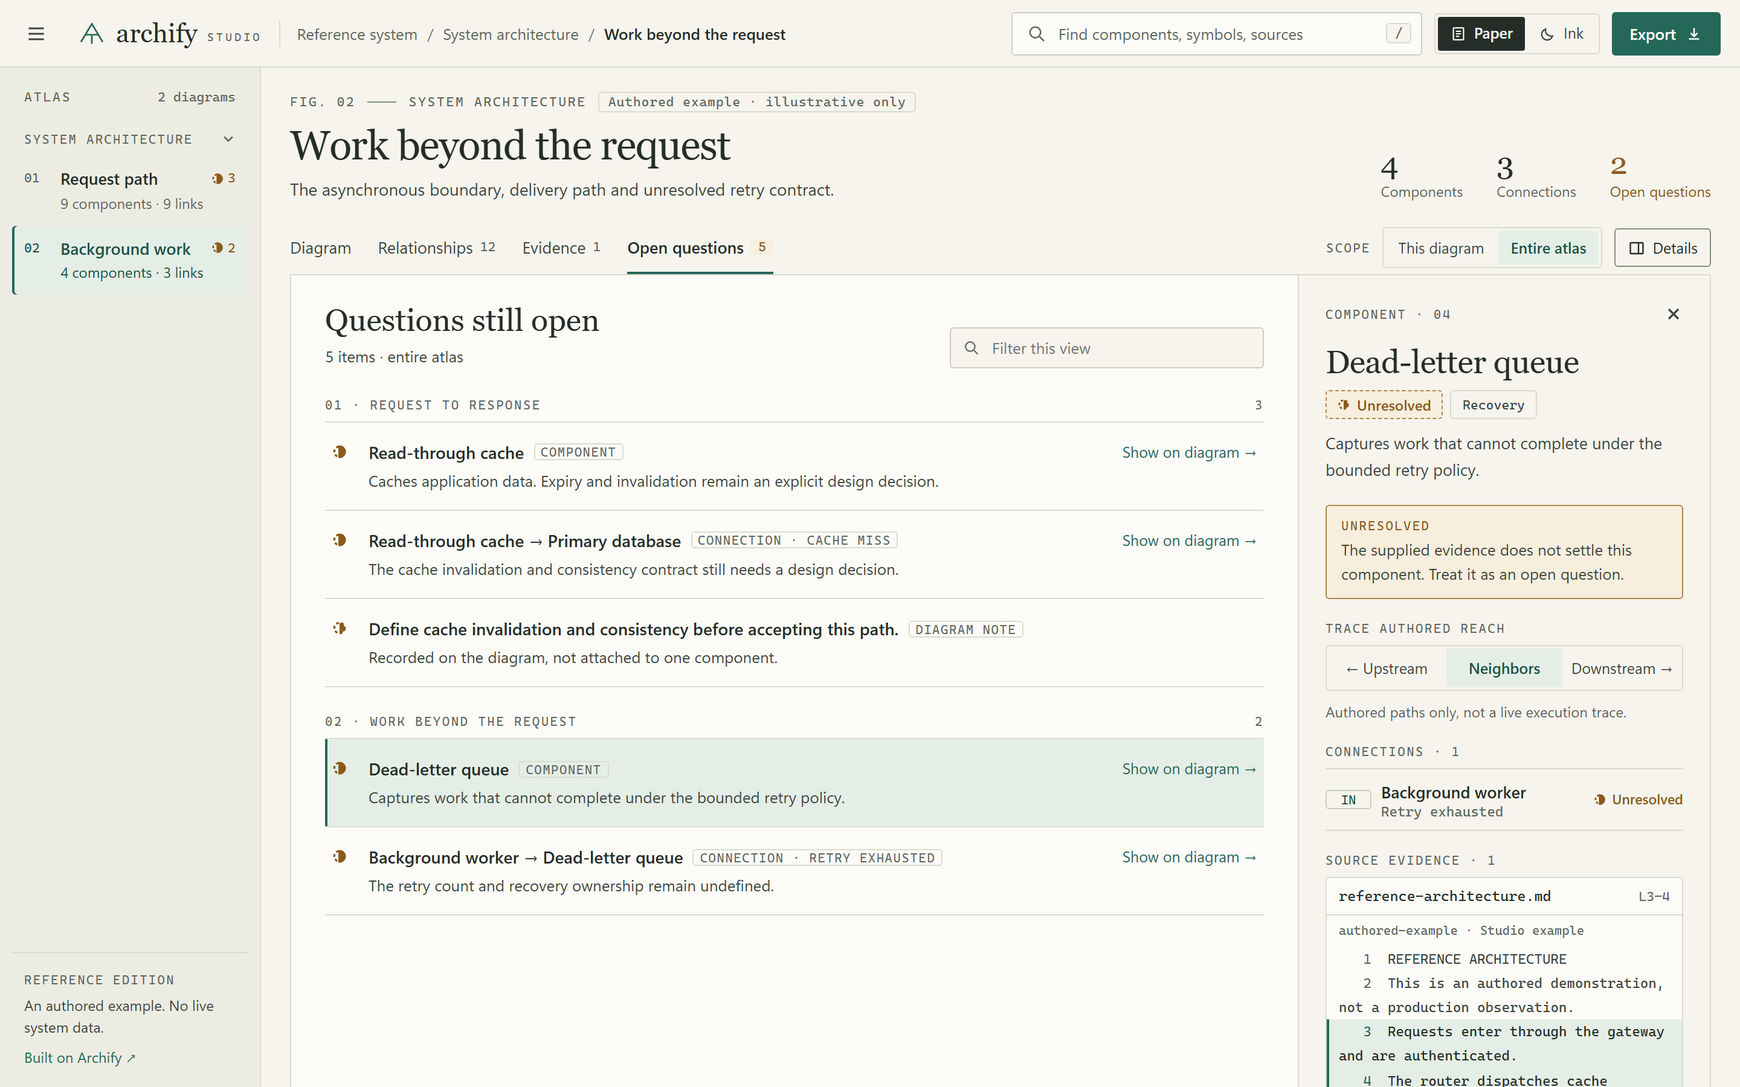
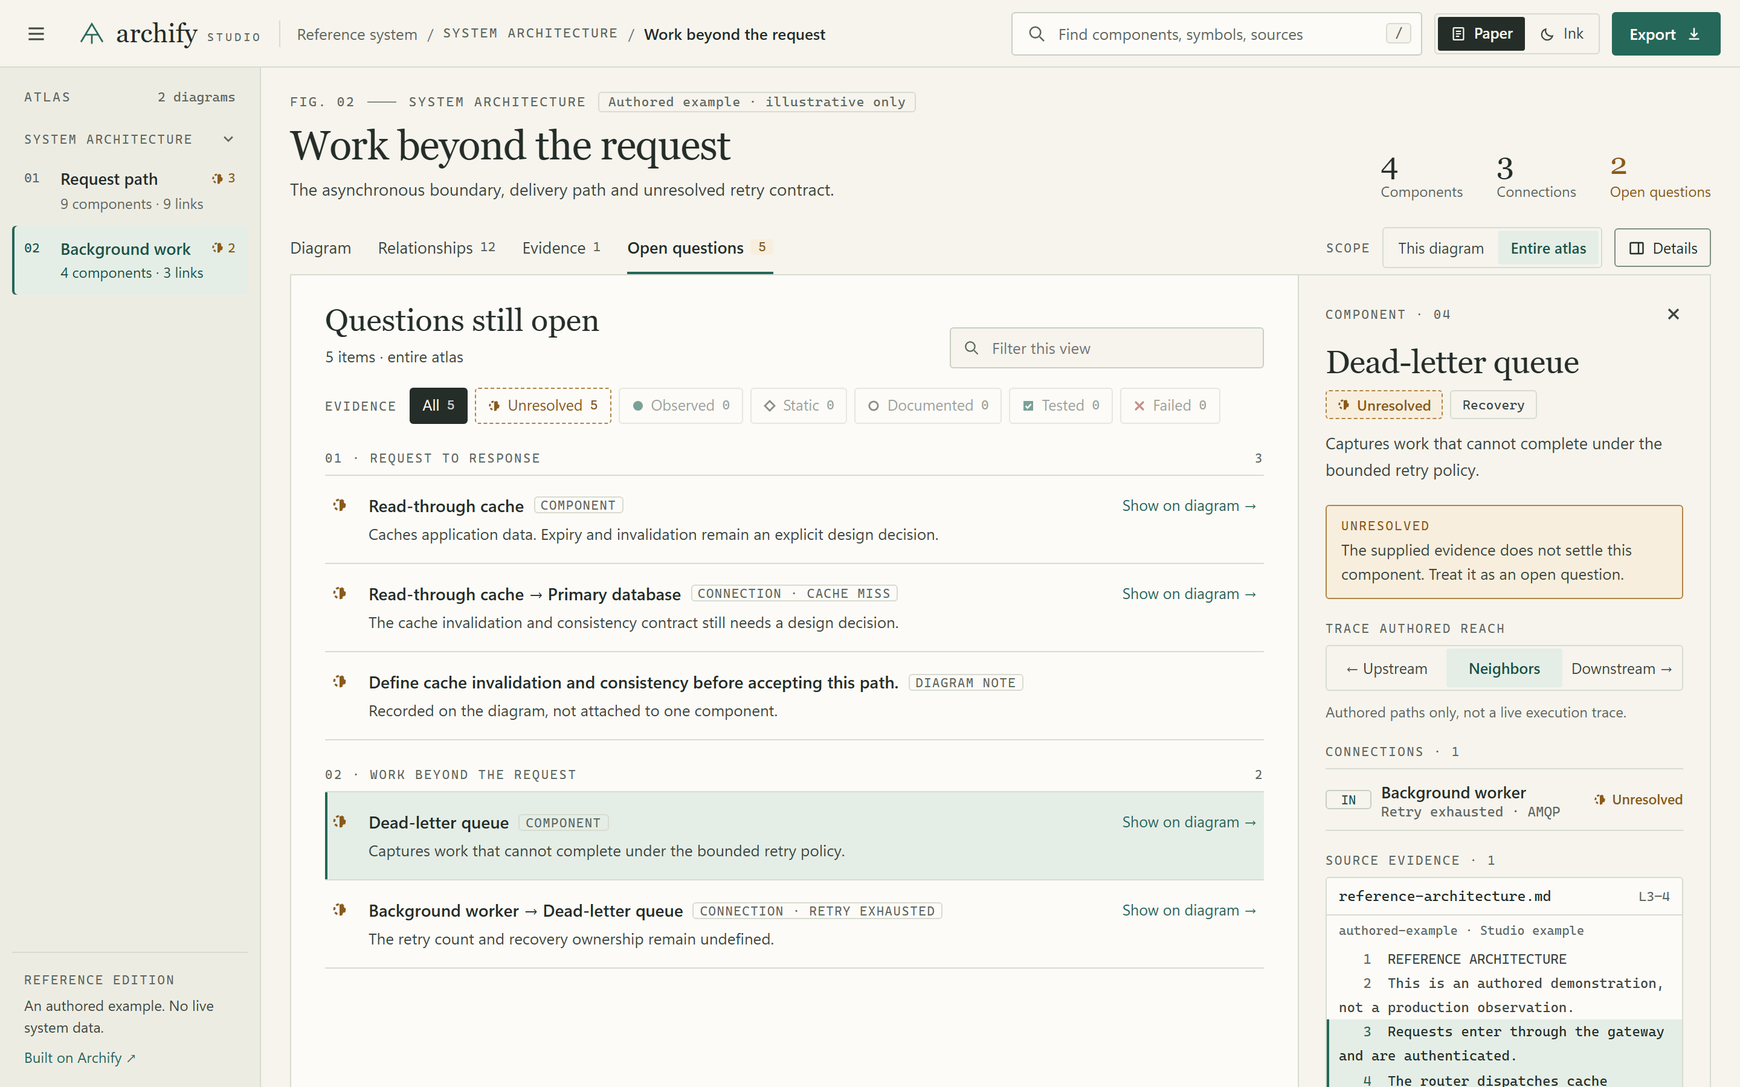
Add relationship transport and interaction-scoped flow animation
Transport (RFC 0002): relationships may record how they cross their
boundary with an optional, validated transport object: mechanism,
protocol, port (0-65535), call (an endpoint, API or system call) and up
to 20 named attributes. Lines carry a short mechanism-and-port chip;
the inspector, relationship rows and search carry the full detail, and
search says when a match came from transport. Transport is authored
metadata under the relationship's evidence state, not a capture. The
Python packager passes it through the shared Node validator unchanged.

Flow: beads flow in the authored direction along the selected
connection, a selected component's connections or a traced path. The
Flow control cycles selection, every connection and off, so motion can
always be stopped (WCAG 2.2.2); reduced motion removes it and SVG
exports omit it. The underlying line keeps its evidence style.

The example atlas gains authored transport for every relationship,
DESIGN.md replaces "no perpetual motion" with "no ambient motion", and
the README screenshots are recaptured.

diff --git a/studio/studio.css b/studio/studio.css
@@ -141,6 +141,8 @@ h1{font:400 34px/1.15 var(--display);letter-spacing:-.6px;margin:8px 0 6px;overf
 .canvas-tools .text-tool{padding:0 12px;font-size:12.5px}
 .canvas-tools .focus-tool:not(:disabled){color:var(--accent-strong);font-weight:600}
 .canvas-tools .mono-tool{font:13px var(--mono)}
+.canvas-tools .flow-tool[data-mode=all]{background:var(--accent-soft);color:var(--accent-strong);font-weight:600}
+.canvas-tools .flow-tool[data-mode=off]{color:var(--muted)}
 .tool-rule{width:1px;height:20px;background:var(--rule)}
 .minimap{position:absolute;right:16px;bottom:16px;width:144px;height:90px;border:1px solid var(--rule);border-radius:3px;background:var(--paper);cursor:pointer;z-index:2}
 .mm-node{fill:var(--rule)}
@@ -186,6 +188,10 @@ h1{font:400 34px/1.15 var(--display);letter-spacing:-.6px;margin:8px 0 6px;overf
 .trace{display:grid;grid-template-columns:repeat(3,minmax(0,1fr))}
 .trace button{justify-content:center;height:32px}
 .hint{font-size:12px;color:var(--muted);margin:0}
+.transport-list{margin:0;border-top:1px solid var(--rule)}
+.transport-list>div{display:grid;grid-template-columns:92px minmax(0,1fr);gap:12px;padding:8px 0;border-bottom:1px solid var(--rule);font-size:13px}
+.transport-list dt{font-size:12px;color:var(--muted)}
+.transport-list dd{margin:0;overflow-wrap:anywhere}
 .relation-row{width:100%;display:grid;grid-template-columns:38px minmax(0,1fr) auto;align-items:center;gap:8px;min-height:52px;padding:6px 0;border-top:1px solid var(--rule);text-align:left}
 .relation-row:last-child{border-bottom:1px solid var(--rule)}
 .relation-row:hover .rel-name{color:var(--accent)}
@@ -254,6 +260,7 @@ button.question-row:hover span{color:var(--accent)}
 .row-title-line{display:flex;flex-wrap:wrap;align-items:center;gap:6px 8px}
 .row-title{font-size:14px;font-weight:600;overflow-wrap:anywhere}
 .row-tag{font:10.5px var(--mono);letter-spacing:.8px;color:var(--muted);border:1px solid var(--rule);border-radius:3px;padding:0 5px;text-transform:uppercase}
+.row-meta{font:11.5px var(--mono);color:var(--ink-2);overflow-wrap:anywhere}
 .row-detail{font-size:13px;color:var(--ink-2);line-height:1.55;overflow-wrap:anywhere}
 .row-action{font-size:12.5px;color:var(--accent);white-space:nowrap;padding-top:1px}
 button.data-row:hover{background:var(--surface)}
@@ -342,6 +349,19 @@ mark{background:var(--mark);color:var(--accent-strong);border-radius:2px;padding
 .edge-label[data-status=failed]{fill:var(--rose)}
 .edge-label[data-on=true]{font-weight:600}
 .edge-label[data-on=true]:not([data-status=unresolved],[data-status=failed]){fill:var(--accent-strong)}
+/* Flow: beads travelling along the authored direction. The line underneath keeps its evidence style. */
+.edge-flow{fill:none;stroke:var(--accent);stroke-width:3.2;stroke-linecap:round;stroke-dasharray:.1 13;display:none;pointer-events:none}
+.graph-edge[data-status=unresolved] .edge-flow{stroke:var(--amber)}
+.graph-edge[data-status=failed] .edge-flow{stroke:var(--rose)}
+.graph-edge:is([data-selected=true],[data-near=true],[data-traced=true]) .edge-flow{stroke:var(--canvas);stroke-width:1.4}
+.graph-edge:is([data-selected=true],[data-near=true],[data-traced=true]) .edge-flow,.flow-all .graph-edge:not([data-dim=true]) .edge-flow{display:inline}
+.flow-off .edge-flow{display:none!important}
+@media(prefers-reduced-motion:no-preference){.edge-flow{animation:edge-flow 1s linear infinite}}
+@media(prefers-reduced-motion:reduce){.edge-flow{display:none!important}}
+@keyframes edge-flow{to{stroke-dashoffset:-13.1}}
+.edge-transport{font:10.5px var(--mono);letter-spacing:.2px;fill:var(--ink-2);paint-order:stroke;stroke:var(--canvas);stroke-width:6;stroke-linejoin:round;pointer-events:none}
+.edge-transport[data-on=true]{fill:var(--accent-strong)}
+.edge-transport[data-dim=true]{opacity:.22}
 .arrow-fill{fill:var(--strong-rule)}.arrow-accent{fill:var(--accent)}.arrow-amber{fill:var(--amber)}.arrow-rose{fill:var(--rose)}
 .sheet-label{font:10.5px var(--mono);letter-spacing:1.6px;fill:var(--muted)}
 
@@ -396,7 +416,7 @@ mark{background:var(--mark);color:var(--accent-strong);border-radius:2px;padding
   .filters{flex-wrap:nowrap;overflow-x:auto;padding:10px 12px 4px;scrollbar-width:none}
   .filters .mono-label{display:none}
   .chip{height:32px;flex:none}
-  .minimap,.canvas-tools #shortcuts-open,.canvas-tools .tool-rule:last-of-type,.focus-tool span{display:none}
+  .minimap,.canvas-tools #shortcuts-open,.canvas-tools .tool-rule:last-of-type,.focus-tool span,.flow-tool span{display:none}
   .canvas-tools{left:auto;right:12px;bottom:12px;height:44px}
   .canvas-tools button{height:42px;min-width:42px}
   .resize-handle{display:none}

diff --git a/studio/index.html b/studio/index.html
@@ -43,7 +43,7 @@
       <section id="map-panel" class="map-panel" role="tabpanel" aria-labelledby="tab-diagram">
         <div class="filters" id="filters" role="group" aria-label="Filter by evidence state"></div>
         <div class="canvas" id="canvas" tabindex="0" aria-label="Interactive diagram. Drag empty space or use the arrow keys to pan; use plus, minus or zero to zoom and fit; F focuses the selection."><svg id="diagram" xmlns="http://www.w3.org/2000/svg" role="group" aria-label="Architecture diagram"></svg></div>
-        <div class="canvas-tools" role="toolbar" aria-label="Diagram view"><button id="zoom-out" aria-label="Zoom out"><svg viewBox="0 0 14 14" aria-hidden="true"><path d="M2 7h10"/></svg></button><output id="zoom-value" aria-live="off">100%</output><button id="zoom-in" aria-label="Zoom in"><svg viewBox="0 0 14 14" aria-hidden="true"><path d="M2 7h10M7 2v10"/></svg></button><span class="tool-rule" aria-hidden="true"></span><button id="zoom-reset" class="text-tool">Fit</button><button id="focus-selection" class="text-tool focus-tool" disabled><svg viewBox="0 0 16 16" aria-hidden="true"><circle cx="8" cy="8" r="4.5"/><path d="M8 1v3M8 12v3M1 8h3M12 8h3"/></svg><span>Focus selection</span></button><span class="tool-rule" aria-hidden="true"></span><button id="shortcuts-open" aria-label="Keyboard shortcuts" aria-haspopup="dialog" class="mono-tool">?</button></div>
+        <div class="canvas-tools" role="toolbar" aria-label="Diagram view"><button id="zoom-out" aria-label="Zoom out"><svg viewBox="0 0 14 14" aria-hidden="true"><path d="M2 7h10"/></svg></button><output id="zoom-value" aria-live="off">100%</output><button id="zoom-in" aria-label="Zoom in"><svg viewBox="0 0 14 14" aria-hidden="true"><path d="M2 7h10M7 2v10"/></svg></button><span class="tool-rule" aria-hidden="true"></span><button id="zoom-reset" class="text-tool">Fit</button><button id="focus-selection" class="text-tool focus-tool" disabled><svg viewBox="0 0 16 16" aria-hidden="true"><circle cx="8" cy="8" r="4.5"/><path d="M8 1v3M8 12v3M1 8h3M12 8h3"/></svg><span>Focus selection</span></button><button id="flow-toggle" class="text-tool flow-tool" data-mode="selection"><svg viewBox="0 0 16 16" aria-hidden="true"><path d="M1.5 8h8M7 5l3 3-3 3"/><circle cx="13.5" cy="8" r="1.2"/></svg><span>Flow</span></button><span class="tool-rule" aria-hidden="true"></span><button id="shortcuts-open" aria-label="Keyboard shortcuts" aria-haspopup="dialog" class="mono-tool">?</button></div>
         <svg id="minimap" class="minimap" xmlns="http://www.w3.org/2000/svg" role="img" aria-label="Overview of the whole diagram; the frame marks the visible area. Clicking moves the view, as do the arrow keys on the diagram."></svg>
       </section>
       <section id="list-panel" class="list-panel" role="tabpanel" hidden></section>

diff --git a/studio/tools/test_package_atlas.py b/studio/tools/test_package_atlas.py
@@ -79,6 +79,17 @@ class PacketTests(unittest.TestCase):
             with self.assertRaises(ValueError):
                 build_packet(data, self.source)
 
+    def test_relationship_transport_passes_through_and_is_validated(self) -> None:
+        data = copy.deepcopy(self.model)
+        data["routes"][0]["nodes"].append({"id": "b", "label": "Second", "kind": "backend", "status": "documented", "symbols": [], "sources": [], "x": 400, "y": 80, "width": 220, "height": 90})
+        data["routes"][0]["edges"].append({"id": "call", "from": "a", "to": "b", "label": "Control", "status": "documented",
+                                             "transport": {"mechanism": "IOCTL", "call": "DeviceIoControl(IOCTL_EXAMPLE)", "attributes": [{"name": "Access", "value": "FILE_ANY_ACCESS"}]}})
+        atlas = json.loads(build_packet(data, self.source)["atlas-data.json"])
+        self.assertEqual(atlas["routes"][0]["edges"][0]["transport"]["call"], "DeviceIoControl(IOCTL_EXAMPLE)")
+        data["routes"][0]["edges"][0]["transport"] = {"port": 70000}
+        with self.assertRaises(ValueError):
+            build_packet(data, self.source)
+
     def test_python_packet_is_accepted_by_real_studio_builder(self) -> None:
         packet = build_packet(self.model, self.source)
         destination = self.root / "packet"

diff --git a/studio/rfcs/0002-relationship-transport-and-flow.md b/studio/rfcs/0002-relationship-transport-and-flow.md
@@ -1,0 +1,46 @@
+# RFC 0002: Relationship transport metadata and flow animation
+
+Status: accepted for implementation under the user's 2026-10-08 request
+Date: 2026-10-08
+Affected contract IDs: JSON-01, A11Y-01, A11Y-02, EVIDENCE-01, CLAIM-01
+Tested revision: the PR #1 commit that adds this RFC
+
+## Problem and scope
+
+Readers asked to see how each relationship crosses its boundary: the network protocol and port, the API or system call, or another mechanism such as an IOCTL or shared memory. They also asked for animated flow along connections. The atlas model had nowhere to record transport, and the design contract excluded motion.
+
+Scope: an optional, validated `transport` object on relationships in the Studio model and the atlas input contract, its presentation in the workspace, and interaction-scoped flow animation. Non-goals: inferring transport from source code, capturing traffic, or changing upstream Archify renderers or candidates.
+
+## Standards and decision
+
+Model. An edge may carry `transport` with any of:
+
+- `mechanism`: how the call crosses the boundary (for example HTTPS, gRPC, IOCTL, system call, function call, shared memory, message queue, MMIO).
+- `protocol`: the wire or message protocol (for example HTTP/1.1, AMQP 0-9-1, QMI).
+- `port`: an integer from 0 to 65535, as in the IANA port number range ([RFC 6335](https://www.rfc-editor.org/rfc/rfc6335), section 6).
+- `call`: the specific endpoint, API or system call (for example `POST /v1/requests`, `DeviceIoControl(IOCTL_EXAMPLE)`, `read(2)`).
+- `attributes`: up to 20 `{name, value}` text pairs for anything else.
+
+Text fields are non-empty and at most 500 characters (attribute values 2000). At least one field must be present, and unknown fields are rejected so later additions are deliberate. Values remain JSON-01 interchange data: a port is a JSON integer, never a string. `studio/model.mjs` is the single validator; the Python packager defers to it through `validate-model.mjs` and copies the field unchanged.
+
+Evidence. Transport is part of the authored relationship and shares its evidence status. It is not a packet capture or runtime observation (EVIDENCE-01, CLAIM-01). The inspector says so under the Transport section.
+
+Presentation. The line carries a short chip with the mechanism and port, so it fits between components; the relationship label is never shortened. The inspector lists every field, relationship rows show the full summary, and search matches transport text, including attributes, and states that the match came from transport.
+
+Motion. The design contract's "no perpetual motion" becomes "no ambient motion". By default, beads flow in the authored direction only along the selected connection, a selected component's connections or a traced path. The Flow control switches between that default, every connection, and off. Because flow can run longer than five seconds beside other content, the control always provides a way to stop it ([WCAG 2.2](https://www.w3.org/TR/WCAG22/), 2.2.2). `prefers-reduced-motion: reduce` removes the animation and disables the control ([WCAG 2.2](https://www.w3.org/TR/WCAG22/), 2.3.3 is advisory at AAA). The beads draw over the line, so solid, dashed and dotted evidence styles are unchanged. Exported SVG omits flow paths.
+
+Alternatives considered: a free-form transport string (not searchable by field, no port validation); always-on animation (violates the design contract and 2.2.2, and suggests live traffic).
+
+## Compatibility and migration
+
+Additive and optional. Existing models and packets without `transport` validate and render as before. Older Studio builds do not check unknown edge fields, so they accept a packet with `transport` and simply do not show it; they also do not validate it. Rollback: remove the field from models. The persisted Flow preference is stored per browser and falls back to the default when absent or invalid.
+
+## Evidence and acceptance
+
+Automated: model tests for valid and invalid transport (empty, wrong types, out-of-range or string ports, unknown fields, malformed attributes), summary formatting and transport search; a Python test that transport passes through the packager and an out-of-range port fails before output; browser checks for chips, inspector rows, list summaries, search match reasons, flow scoping, the three Flow modes and their persistence, reduced motion and SVG export.
+
+Pending: manual screen-reader review of the Transport section and Flow control (A11Y-02 remains manual-open); review against a real private atlas with dense labels.
+
+## Exceptions and re-evaluation
+
+The on-line chip shortens long mechanism text to 18 characters with an ellipsis; the full value is always available in the inspector, rows and search. Re-evaluate if readers need protocol on the line, or if animation cost on very dense diagrams with Flow set to every connection becomes noticeable.

diff --git a/studio/DESIGN.md b/studio/DESIGN.md
@@ -4,10 +4,13 @@
 Create a private, independently maintained Archify derivative for technical investigation. Carry the existing diagram topology and evidence boundaries into a coherent workspace. The approved conversation design supplies persistent state, a docked inspector, explicit search scope, grouped diagrams, evidence navigation and accessible controls.
 
 ## Visual direction
-An architectural drawing desk. Warm paper (#f6f4ed), charcoal (#252b29), muted teal (#256759). Amber and rust identify unresolved and failed evidence. Fine rules, near-square corners and typography establish hierarchy. The canvas is the focal point. A serif document title, humanist system UI text and monospace identifiers have separate jobs. No external fonts, framework styling, dashboard tiles, ornamental gradients, or perpetual motion. Light and dark palettes preserve meaning. Rounded rectangles represent actual graph components, not decorative content cards.
+An architectural drawing desk. Warm paper (#f6f4ed), charcoal (#252b29), muted teal (#256759). Amber and rust identify unresolved and failed evidence. Fine rules, near-square corners and typography establish hierarchy. The canvas is the focal point. A serif document title, humanist system UI text and monospace identifiers have separate jobs. No external fonts, framework styling, dashboard tiles, ornamental gradients, or ambient motion. Motion appears only where the reader is looking: the selected connection, a selected component's connections and a traced path show beads flowing in the authored direction, and the Flow control switches between that default, every connection, and off, so motion can always be stopped. Flow shows authored direction, never observed traffic, and reduced motion removes it. Light and dark palettes preserve meaning. Rounded rectangles represent actual graph components, not decorative content cards.
 
 ### Evidence vocabulary
 Each of the six evidence states has a label, a glyph shape and a line style, so states never depend on hue alone: observed (filled circle), software tested (filled square with check), static analysis (open diamond), documented (open circle), unresolved (dashed half-filled circle) and failed (cross). One rule holds everywhere: dashed means not established. Unresolved components and connections are dashed amber; failed ones are dotted rust. The evidence chips above the canvas are both the legend and the filter, with per-state counts for the current diagram.
+
+### Transport
+A relationship may say how it crosses its boundary: mechanism (HTTPS, gRPC, IOCTL, system call, shared memory), protocol, port, the specific call (an endpoint, API or system call) and named attributes. The line carries a short mechanism-and-port chip; the inspector, relationship list and search carry the full detail. Transport is part of the authored claim and shares its evidence state; it is not a capture.
 
 ## Interaction
 A grouped, collapsible diagram directory; a viewport-sized SVG canvas; an optional docked evidence inspector; global search with explicit all-diagrams/current-diagram scope. Diagram, relationship, source, and gaps views preserve the route's camera and selection. URL fragments encode route, view, selection, scope, search and status filter. Browser history represents deliberate navigation. Invalid links recover to a valid overview. Source excerpts are text, never HTML. Keyboard equivalents exist for selection, tabs, closing panels, zoom, panning and focusing the selection; `?` lists them. Search groups results by type and states why each one matched. Focus selection frames the selected component with its neighbors; the overview map appears only when part of the diagram is out of view. At phone widths the directory is an overlay and details open as a bottom sheet while the selection is framed above it. Without a saved choice, the theme follows the system color scheme. Reduced motion is respected.

diff --git a/README.md b/README.md
@@ -6,17 +6,17 @@ Studio adds a drawing-desk visual system, Paper and Ink themes, persistent diagr
 
 ## Screenshots
 
-These show the bundled authored example, not production data.
+These show the bundled authored example, not production data. Connections carry their transport (mechanism and port, such as `TCP :6379`), with protocol, call and attributes in the details panel. In the app, the selected connections also show beads flowing in the authored direction; the Flow control switches between the selection, every connection and off. Flow shows authored direction, not observed traffic.
 
-![The diagram workspace in the Paper theme. The read-through cache is selected: its neighbors stay highlighted, the unresolved cache-miss connection is dashed amber, and the details panel shows the component's evidence state, symbols, connections and cited source.](studio/screenshots/workspace-paper.png)
+![The diagram workspace in the Paper theme. The read-through cache is selected: its neighbors stay highlighted, each connection is labeled with its transport such as HTTPS :443 or TCP :6379, the unresolved cache-miss connection is dashed amber, and the details panel shows the component's evidence state, symbols, connections and cited source.](studio/screenshots/workspace-paper.png)
 
 <table>
   <tr>
-    <td width="50%"><img src="studio/screenshots/workspace-ink.png" alt="The Ink theme with the unresolved Cache miss connection selected, showing its endpoints and source excerpt."></td>
+    <td width="50%"><img src="studio/screenshots/workspace-ink.png" alt="The Ink theme with the unresolved Cache miss connection selected, showing its endpoints and its transport: TCP, PostgreSQL wire protocol, port 5432, call SELECT."></td>
     <td width="50%"><img src="studio/screenshots/search.png" alt="Find in atlas: results for cache grouped into connections and components, with each match highlighted and the reason it matched."></td>
   </tr>
   <tr>
-    <td align="center">Ink theme, a connection selected</td>
+    <td align="center">Ink theme, a connection and its transport</td>
     <td align="center">Search groups results and says why each matched</td>
   </tr>
 </table>

diff --git a/studio/contracts/atlas-input-v1.md b/studio/contracts/atlas-input-v1.md
@@ -4,7 +4,7 @@ The reusable Python packaging entrypoint is `studio/tools/package_atlas.py`. Its
 
 ## Input
 
-`--model` names UTF-8 JSON with `title`, `routes`, `sources`, and optional `terms`, `subtitle`, `demonstration`. Each route declares `id`, `title`, `nodes`, `edges`, and optional `summary`, `group`, `shortTitle`, `unknowns`. Node fields match `studio/model.mjs`: ID, label, evidence status, finite x/y/width/height, symbols and citations. Edges declare unique IDs, valid from/to IDs, label, status, citations and optional explicit routing.
+`--model` names UTF-8 JSON with `title`, `routes`, `sources`, and optional `terms`, `subtitle`, `demonstration`. Each route declares `id`, `title`, `nodes`, `edges`, and optional `summary`, `group`, `shortTitle`, `unknowns`. Node fields match `studio/model.mjs`: ID, label, evidence status, finite x/y/width/height, symbols and citations. Edges declare unique IDs, valid from/to IDs, label, status, citations and optional explicit routing. An edge may add an optional `transport` object (RFC 0002) with any of `mechanism`, `protocol` and `call` (non-empty text up to 500 characters), `port` (integer 0 to 65535) and `attributes` (up to 20 `{name, value}` text pairs); it must contain at least one of them, and unknown fields are rejected. Transport is authored metadata under the edge's evidence status, not an observed capture.
 
 An explicit `schemaVersion` must be the integer 1; omission retains compatibility with older versionless packets. Unknown versions fail rather than being silently interpreted as v1.
 
